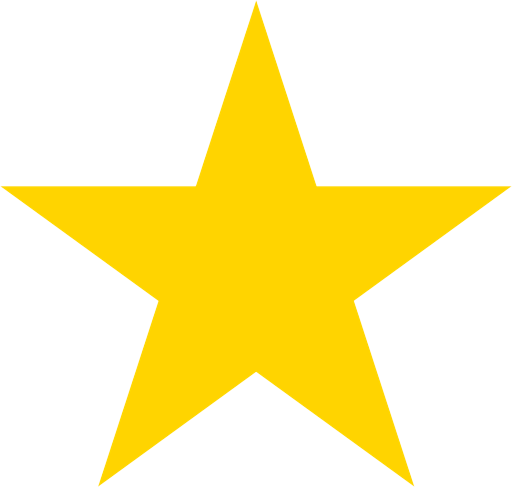
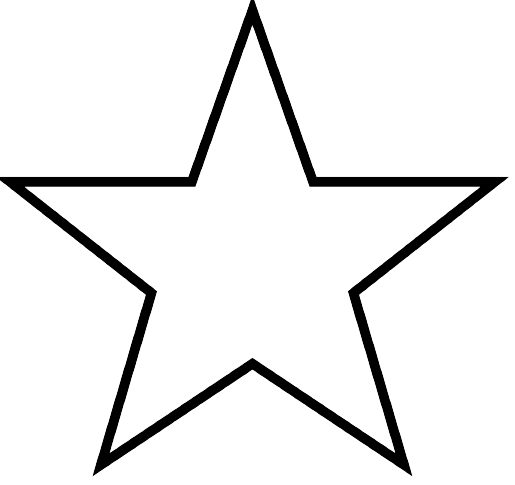
"Atualização Javascript"

diff --git a/src/js/main.js b/src/js/main.js
@@ -5,8 +5,11 @@ const generation_container = document.getElementById('generation_container');
 const pokedex_name = document.getElementById('pokedex_name');
 const loading = document.getElementById('loading');
 
+const starYellow = 'src/img/star-yellow.png';
+const imgStar = 'src/img/star.png';
 
-const card_anim_speed = 300;
+
+const card_anim_speed = 3000;
 
 let timeout = null;
 let generations = null;
@@ -82,7 +85,7 @@ const getGenerations = async (url) => {
     } catch(e) {errorShake(e);}
 }
 
-// Background color
+
 const type_colors = {
     normal:'#a8a878',
     fire:'#f08030',
@@ -317,13 +320,6 @@ function createPokemonCard(pokemon) {
             <th class='total'>TOTAL</th>
             <th>${total_stats}</th>
             <th></th>
-            <th>
-                  <a class='favorite' href='#'>
-                    <img src='src/img/star.png'>
-                </a>
-               
-                </a>
-            </th>
         </tr>
     </table>
     `;
@@ -351,15 +347,15 @@ function createPokemonCard(pokemon) {
                     <img src='${pokemon['sprites']['other']['official-artwork']['front_default']}'>
                 </div>
             </div>
-            <div class='pokemon_card_back'>
+            <div class='pokemon_card_back' onclick="addFavorite(${pokemon.id})">
                 ${stats_innerHTML}
+                <img class='img-favorite' src= "${verifyFavorite(pokemon.id) ? starYellow : imgStar }">
             </div>
         </div>
     `;
 
     pokemon_card.innerHTML = pokemon_innerHTML;
-    
-    // Cor background gradiente
+
     const pokemon_card_front = Array.from(Array.from(pokemon_card.children)[0].children)[0];
     const pokemon_card_back = Array.from(Array.from(pokemon_card.children)[0].children)[1];
     if (types.length > 1) {
@@ -389,7 +385,7 @@ function createPokemonCard(pokemon) {
     addMoveUpAnim(pokemon_card);
 }
 
-// Mobile
+
 function flipCard(card) {
     if(/Android|webOS|iPhone|iPad|Mac|Macintosh|iPod|BlackBerry|IEMobile|Opera Mini/i.test(navigator.userAgent)) {
         if (card.style.transform == 'rotateX(180deg)') {
@@ -400,9 +396,8 @@ function flipCard(card) {
     }
 }
 
-
 search_bar.value = '';
-
 
 getGenerations('https://pokeapi.co/api/v2/generation/');
 getAllPokemon(`https://pokeapi.co/api/v2/pokemon/?limit=151&offset=0`, 1);
+

diff --git a/index.html b/index.html
@@ -8,6 +8,7 @@
     <link rel="stylesheet" href="src/css/style.css">
 </head>
 <body>
+  <div id="loading"><img src="src/img/loading.gif" alt="Loading"></div>
     <section class="home">
         <div class="home-pokemon">
             <a href="#"><img src="src/img/logo.svg" alt="Logo Pokemon" class="logo-pokemon"></a>
@@ -27,9 +28,14 @@
       <span class="search-error" id="search_error"></span>
     </div>
     <div class="loading" id="loading"></div>
-    <div class="pokemon-container" id="pokemon_container"></div>
-      
+    <div class="pokemon-container" id="pokemon_container">
+      <div class="pokemon_card_back"></div> 
+    </div>
+   
+    </div>
+     
     <script src="src/js/main.js"></script>
+    <script src="src/js/storage.js"></script>
 </body>
 </html>
 

diff --git a/src/css/components/_cards.css b/src/css/components/_cards.css
@@ -20,6 +20,18 @@
 
 .pokemon_card_back {
     transform: rotateX(180deg);
+    cursor: pointer;
+}
+
+.img-favorite {
+    width: 30px;
+    height: 30px;
+    margin: 190px 0 0 -80px;
+}
+
+.img-favorite:hover::after,
+.img-favorite.fav:after {
+    width: 40px;
 }
 
 .stats {
@@ -55,7 +67,7 @@
     border-radius: 20px;
     box-shadow: 0 1px 5px #111;
     width: 100%;
-    transition: transform 0.8s;
+    transition: transform 2s;
     transform-style: preserve-3d;
 }
 
@@ -137,12 +149,6 @@
     justify-content: center;
     margin-top: 80px;
 }
-
-.favorite img{
-    width: 30px;
-    height: auto;
-}
-
 
 
 

diff --git a/src/js/storage.js b/src/js/storage.js
@@ -1,0 +1,27 @@
+const starFavorite = JSON.parse(localStorage.getItem('favorite'));
+
+function getItem() {
+    if(!starFavorite) {
+        localStorage.setItem('favorite', '[]');
+    }
+}
+
+function addFavorite(id) {
+    let listFavorite = (starFavorite);
+    if(listFavorite) {
+    listFavorite.push(id);
+    localStorage.setItem('favorite', JSON.stringify(listFavorite));
+    
+    window.location.reload()
+
+    }
+}
+
+function verifyFavorite(id) {
+    const idFavorite = starFavorite.find(e => e === id);
+    if(idFavorite) return true;
+    else return false;
+}
+
+getItem();
+

diff --git a/src/css/_global.css b/src/css/_global.css
@@ -10,6 +10,12 @@
 body {
     background-color: var(--body-color);
     font-family: 'Poppins', sans-serif;
+    position: relative;
 }
 
+#loading {
+    text-align: center;
+    display: block;
+    position: absolute;
+}
 
